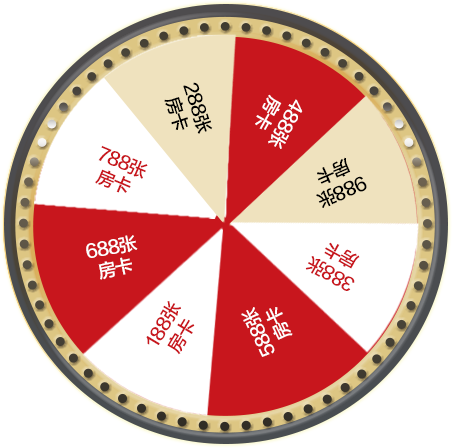
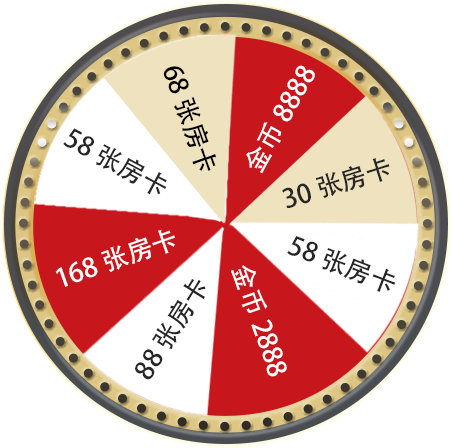
update 转盘

diff --git a/index.html b/index.html
@@ -123,21 +123,21 @@
                 function stophs() {
                     TweenMax.set($(".ws20160229 .holder .start .zi"), {rotation: 0, delay: 0.3})
                     if (num == 0) {
-                        alerths("首汽租车 58元代金券")
+                        alerths("恭喜您获得 金币8888")
                     } else if (num == 1) {
-                        alerths("999元 泰达宏利 货币基金")
+                        alerths("恭喜您获得 30张放卡")
                     } else if (num == 2) {
-                        alerths("首汽约车 50元礼包")
+                        alerths("恭喜您获得 58张放卡")
                     } else if (num == 3) {
-                        alerths("首汽租车   88元代金券  ")
+                        alerths("恭喜您获得 金币2888")
                     } else if (num == 4) {
-                        alerths("5元泰达宏利 货币基金")
+                        alerths("恭喜您获得 88张房卡")
                     } else if (num == 5) {
-                        alerths("首汽约车   100元礼包  ")
+                        alerths("恭喜您获得 168张房卡")
                     } else if (num == 6) {
-                        alerths("首汽租车 300元代金券")
+                        alerths("恭喜您获得 58张房卡")
                     } else if (num == 7) {
-                        alerths("首汽约车 10元代金券 ")
+                        alerths("恭喜您获得 68张房卡")
                     }
                 }
             } else {
